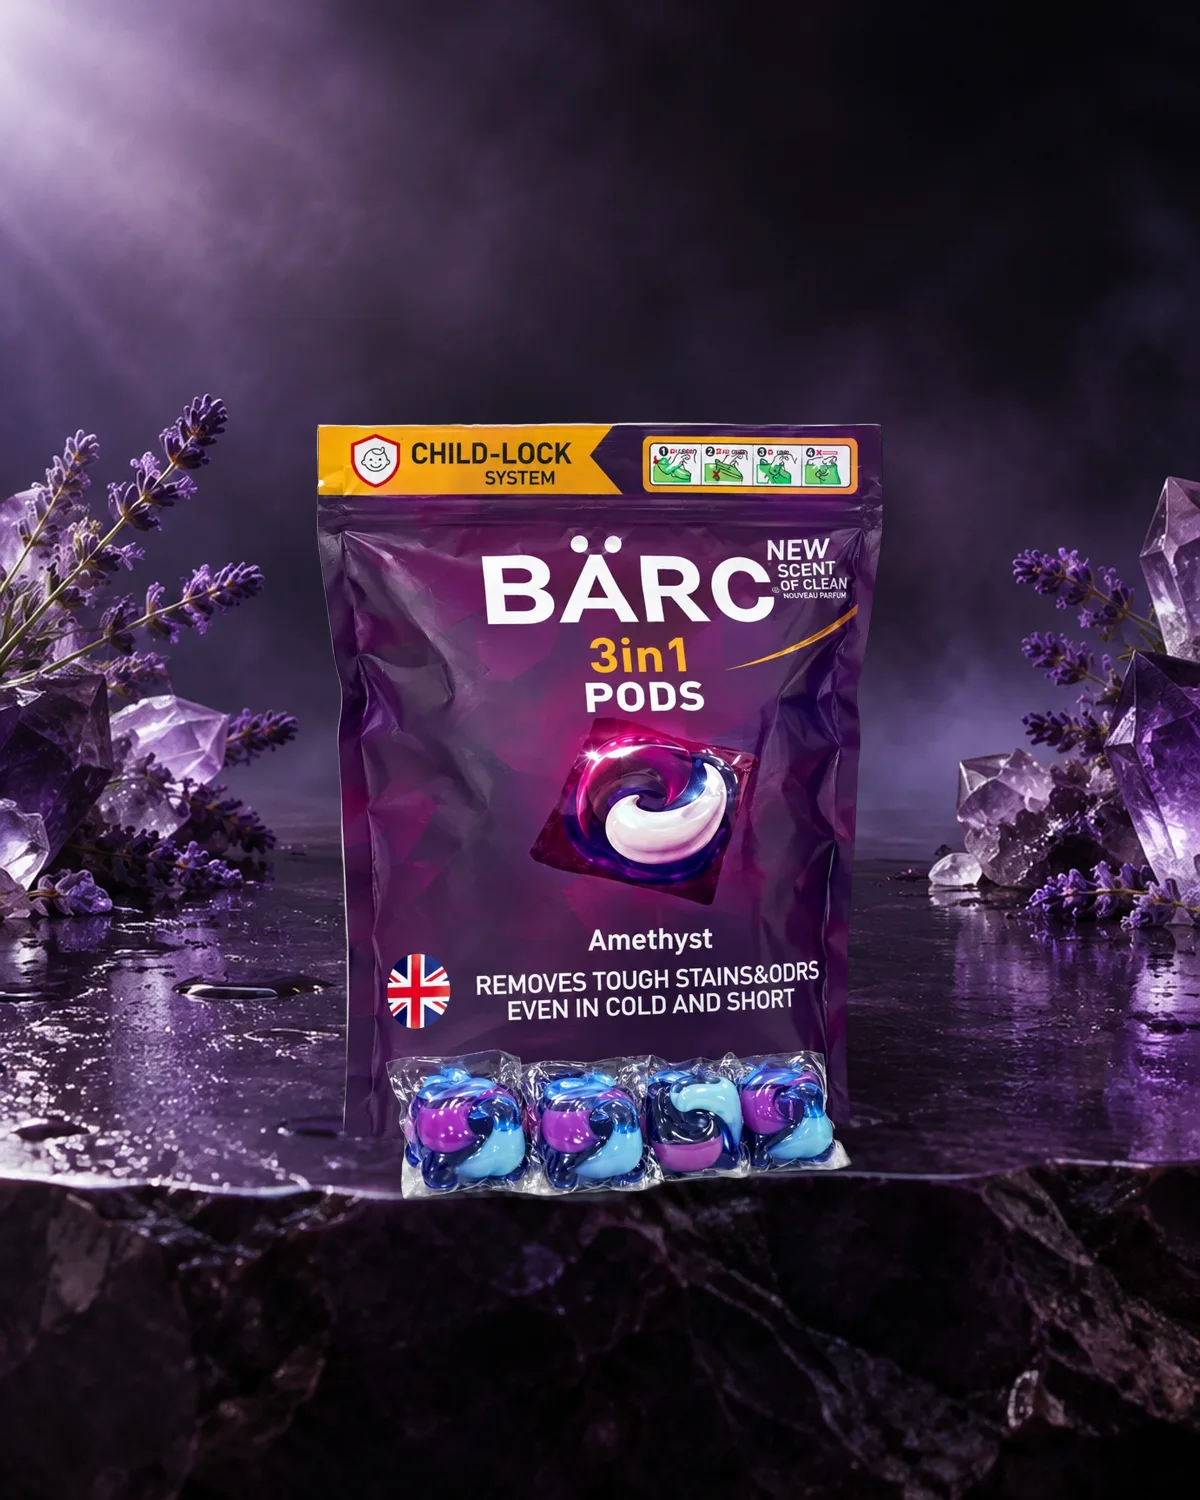
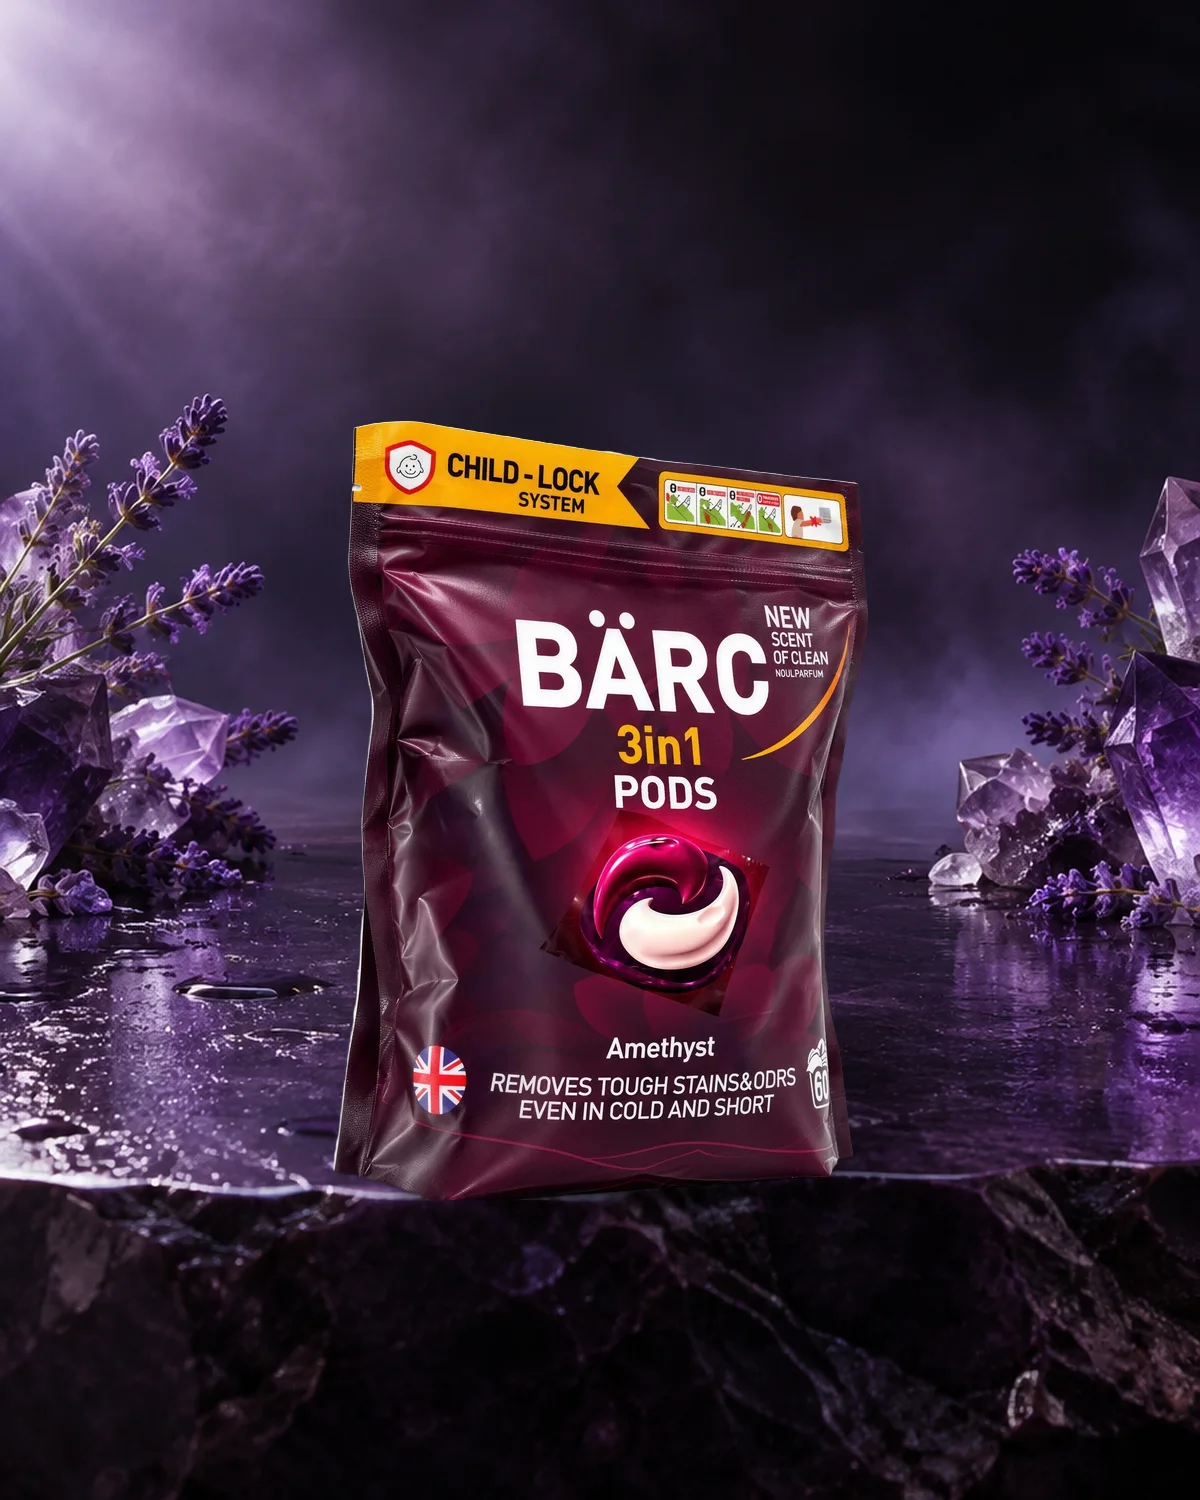
Haqiqiy qadoq suratlari: sahna, sahnalashtirilgan va galereya rasmlari almashtirildi

Changed region(s): [[0.2467, 0.276, 0.74, 0.7973]]

diff --git a/public/index.html b/public/index.html
@@ -11,11 +11,11 @@
 <link rel="apple-touch-icon" href="assets/icons/apple-touch-icon.png">
 <link rel="manifest" href="site.webmanifest">
 <meta property="og:title" content="BÄRC — 3in1 PODS">
-<meta property="og:image" content="assets/img/lineup-splash.webp">
+<meta property="og:image" content="https://barc-stage.pages.dev/assets/img/crystal-studio.webp">
 <link rel="preconnect" href="https://fonts.googleapis.com">
 <link rel="preconnect" href="https://fonts.gstatic.com" crossorigin>
 <link href="https://fonts.googleapis.com/css2?family=Oswald:wght@500;700&family=Inter:wght@400;500;600&family=Cairo:wght@500;700;900&display=swap" rel="stylesheet">
-<link rel="stylesheet" href="assets/style.css?v=13">
+<link rel="stylesheet" href="assets/style.css?v=14">
 <script type="application/ld+json">
 {"@context":"https://schema.org","@type":"ItemList","itemListElement":[
 {"@type":"Product","position":1,"name":"BÄRC 3in1 PODS Amethyst","brand":{"@type":"Brand","name":"BÄRC"},"image":"assets/img/amethyst.webp"},
@@ -377,7 +377,7 @@
 <script src="https://cdnjs.cloudflare.com/ajax/libs/gsap/3.12.5/gsap.min.js"></script>
 <script src="https://cdnjs.cloudflare.com/ajax/libs/gsap/3.12.5/ScrollTrigger.min.js"></script>
 <script src="https://cdn.jsdelivr.net/npm/lenis@1.1.18/dist/lenis.min.js"></script>
-<script src="assets/i18n.js?v=13"></script>
-<script src="assets/app.js?v=13"></script>
+<script src="assets/i18n.js?v=14"></script>
+<script src="assets/app.js?v=14"></script>
 </body>
 </html>

diff --git a/public/assets/app.js b/public/assets/app.js
@@ -14,7 +14,7 @@ const FALLBACK = [
   { id: "crystal", name: "Crystal Bloom", theme: { bg: "#071A45", bg2: "#030A1E", surface: "#1C55D6", accent: "#7DC2FF", glow: "#2F7BFF" } },
   { id: "original", name: "Original", theme: { bg: "#062A1A", bg2: "#02130B", surface: "#1E8A3E", accent: "#8EE58A", glow: "#2FBF55" } },
 ].map((p) => ({ ...p, img: `assets/img/${p.id}.webp`, atmo: `assets/img/${p.id}-atmo.webp`,
-  gallery: [["studio", null], ["scent", `prod.${p.id}.g1`], ["room", null], ["result", `prod.${p.id}.g2`], ["cold", `prod.${p.id}.g3`]]
+  gallery: [["studio", null], ["real-front", null], ["real-34", null], ["scent", `prod.${p.id}.g1`], ["real-pod", null], ["room", null], ["real-back", null], ["real-lock", null]]
     .map(([f, k]) => ({ src: `assets/img/${p.id}-${f}.webp`, cap: k ? CAP(k) : { uz: p.name } })) }));
 
 async function loadSite() {
